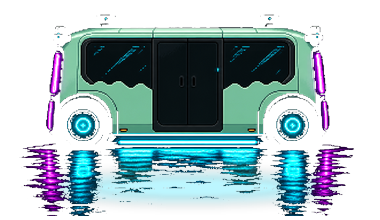
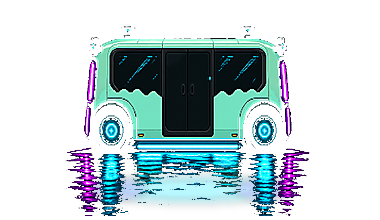
Shorten Zoox silhouette for arcade lane scale
Compress the carriage horizontally (~1.28 aspect) and scale X tighter
in-game so the robotaxi reads less stretched next to traffic.

diff --git a/src/objects/Zoox.js b/src/objects/Zoox.js
@@ -25,12 +25,13 @@ export class Zoox extends Phaser.Physics.Arcade.Sprite {
     // Origin on the tire / wet-reflection contact line.
     this.setOrigin(0.5, 0.84);
     this.setDepth(30);
-    this.setScale(0.78);
+    // Shorter silhouette: compress X a touch more than Y.
+    this.setScale(0.68, 0.8);
     this.setCollideWorldBounds(false);
 
     // Body-only hitbox — exclude baked wet reflection padding.
-    this.body.setSize(this.width * 0.50, this.height * 0.32);
-    this.body.setOffset(this.width * 0.25, this.height * 0.20);
+    this.body.setSize(this.width * 0.52, this.height * 0.34);
+    this.body.setOffset(this.width * 0.24, this.height * 0.20);
 
     if (scene.anims.exists('zoox-drive')) {
       this.play('zoox-drive');
@@ -60,14 +61,14 @@ export class Zoox extends Phaser.Physics.Arcade.Sprite {
     });
 
     // Front cyan spill / rear magenta spill (bidirectional robotaxi cues).
-    this.headlight = scene.add.image(this.x + 88, this.y - 28, ASSET_KEYS.HEADLIGHT)
+    this.headlight = scene.add.image(this.x + 70, this.y - 28, ASSET_KEYS.HEADLIGHT)
       .setOrigin(0, 0.5)
       .setDepth(29)
       .setScale(0.5)
       .setAlpha(0.28)
       .setBlendMode(Phaser.BlendModes.ADD);
 
-    this.taillight = scene.add.image(this.x - 82, this.y - 28, ASSET_KEYS.TAILLIGHT)
+    this.taillight = scene.add.image(this.x - 66, this.y - 28, ASSET_KEYS.TAILLIGHT)
       .setDepth(29)
       .setScale(0.65)
       .setAlpha(0.3)
@@ -84,8 +85,8 @@ export class Zoox extends Phaser.Physics.Arcade.Sprite {
     }
     this.shadow.setPosition(this.x + 2, this.baseY + 6);
     this.underglow?.setPosition(this.x, this.baseY + 4);
-    this.headlight.setPosition(this.x + 88, this.y - 28);
-    this.taillight.setPosition(this.x - 82, this.y - 28);
+    this.headlight.setPosition(this.x + 70, this.y - 28);
+    this.taillight.setPosition(this.x - 66, this.y - 28);
   }
 
   /**
@@ -113,8 +114,8 @@ export class Zoox extends Phaser.Physics.Arcade.Sprite {
       onUpdate: () => {
         this.shadow.setPosition(this.x + 2, this.y + 6);
         this.underglow?.setPosition(this.x, this.y + 4);
-        this.headlight.setPosition(this.x + 88, this.y - 28);
-        this.taillight.setPosition(this.x - 82, this.y - 28);
+        this.headlight.setPosition(this.x + 70, this.y - 28);
+        this.taillight.setPosition(this.x - 66, this.y - 28);
       },
       onComplete: () => {
         this.changingLane = false;

diff --git a/scripts/art/make_zoox_robotaxi.py b/scripts/art/make_zoox_robotaxi.py
@@ -89,6 +89,7 @@ def polish_colors(img: Image.Image) -> Image.Image:
 
 
 def fit_car(img: Image.Image) -> Image.Image:
+    """Fit the keyed plate into the canvas, shortened horizontally for arcade read."""
     bbox = img.getbbox()
     if not bbox:
         raise RuntimeError("empty sprite after keying")
@@ -101,8 +102,12 @@ def fit_car(img: Image.Image) -> Image.Image:
         min(img.height, y1 + pad),
     ))
     cw, ch = CANVAS
-    scale = min((cw - 20) / crop.width, (ch - 16) / crop.height)
-    car = crop.resize((int(crop.width * scale), int(crop.height * scale)), Image.Resampling.LANCZOS)
+    # Shorter arcade silhouette (source plates are too stretched vs traffic).
+    target_aspect = 1.32  # width / height
+    scale_h = (ch - 28) / crop.height
+    nh = int(crop.height * scale_h)
+    nw = min(int(nh * target_aspect), cw - 40)
+    car = crop.resize((nw, nh), Image.Resampling.LANCZOS)
     return car.filter(ImageFilter.UnsharpMask(radius=1.0, percent=130, threshold=2))
 
 
@@ -114,11 +119,12 @@ def compose(car: Image.Image, glow_boost: float = 1.0) -> Image.Image:
     cx = cw // 2
     cy = y + int(car.height * 0.86)
     glow = Image.new("RGBA", (cw, ch), (0, 0, 0, 0))
+    # Keep glow pools under the shortened body (avoid wide bbox stretch).
     for rx, ry, col, blur, ox in (
-        (150, 16, (0, 230, 255, int(55 * glow_boost)), 5, 0),
-        (100, 9, (160, 250, 255, int(40 * glow_boost)), 2.5, 0),
-        (36, 12, (220, 70, 255, int(40 * glow_boost)), 3.5, -110),
-        (36, 12, (220, 70, 255, int(40 * glow_boost)), 3.5, 110),
+        (100, 14, (0, 230, 255, int(55 * glow_boost)), 4, 0),
+        (68, 8, (160, 250, 255, int(40 * glow_boost)), 2.2, 0),
+        (28, 11, (220, 70, 255, int(38 * glow_boost)), 3.0, -72),
+        (28, 11, (220, 70, 255, int(38 * glow_boost)), 3.0, 72),
     ):
         layer = Image.new("RGBA", (cw, ch), (0, 0, 0, 0))
         ImageDraw.Draw(layer).ellipse([cx - rx + ox, cy - ry, cx + rx + ox, cy + ry], fill=col)
